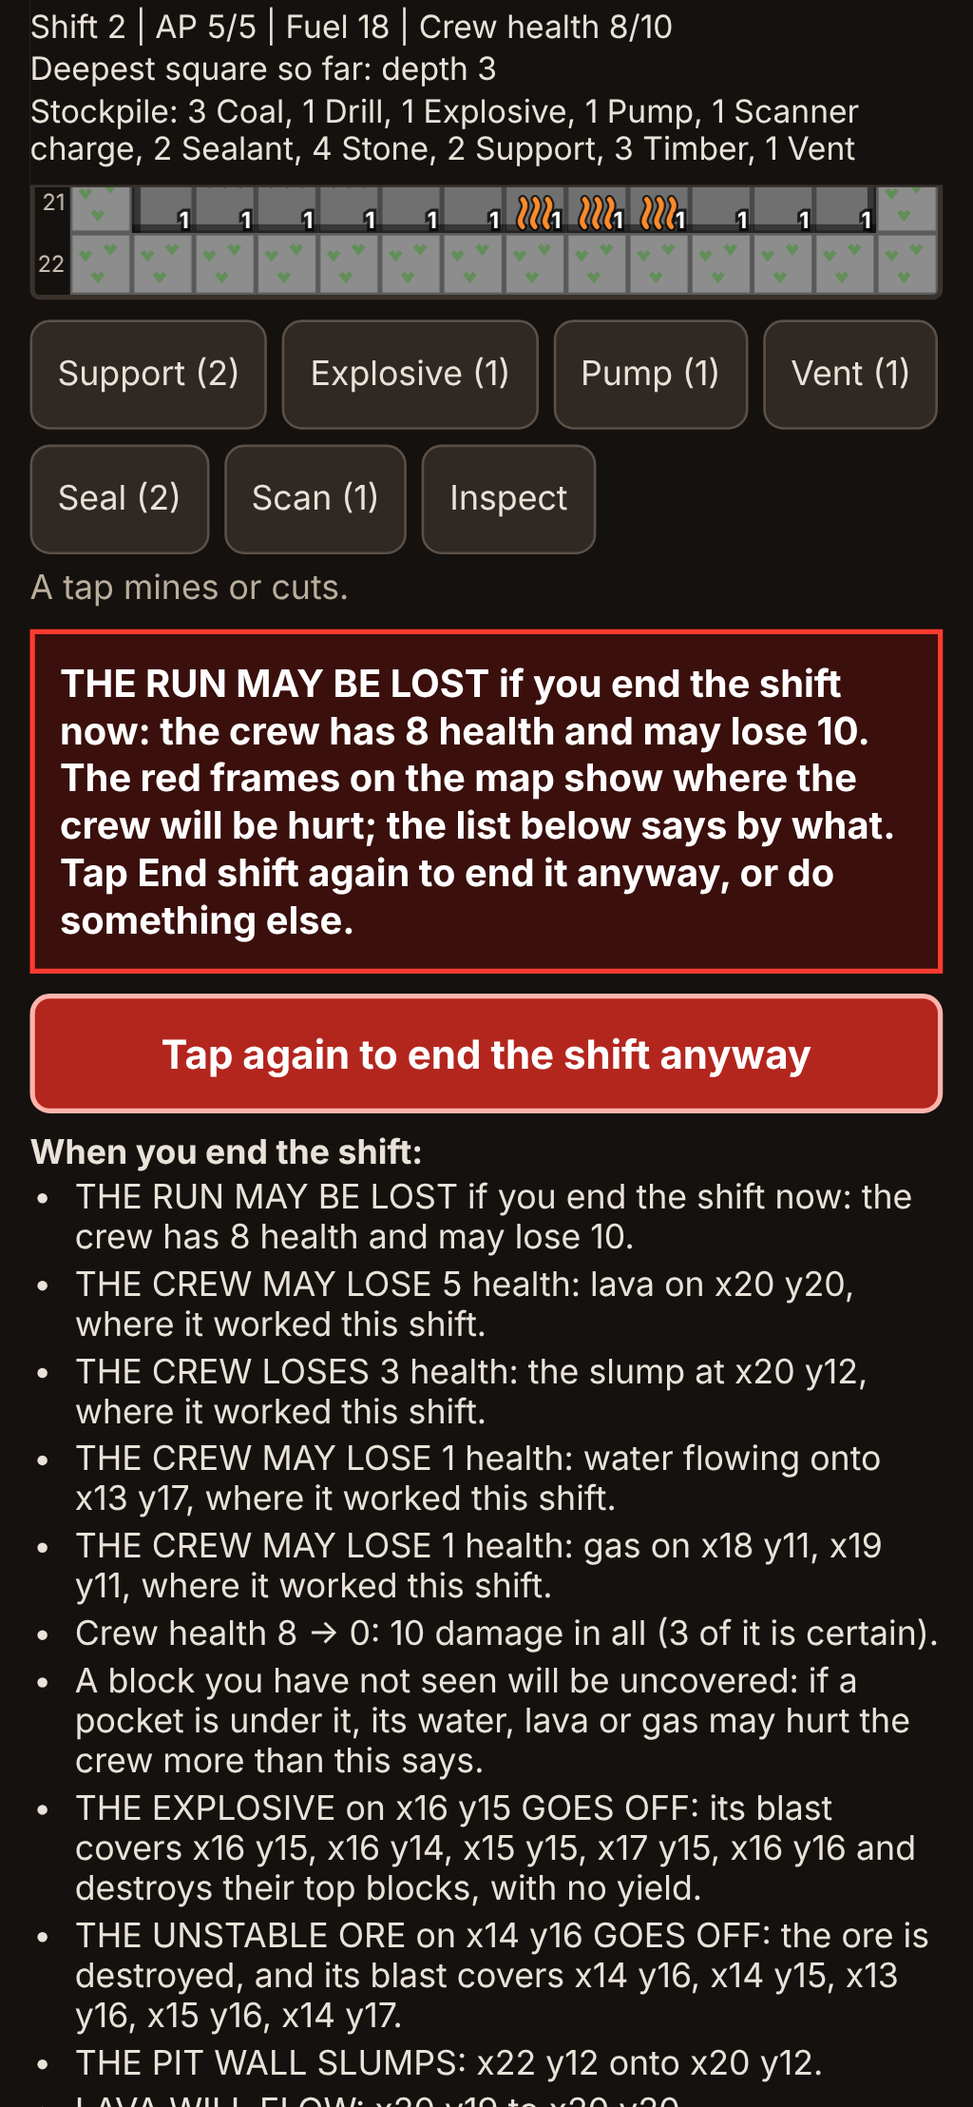
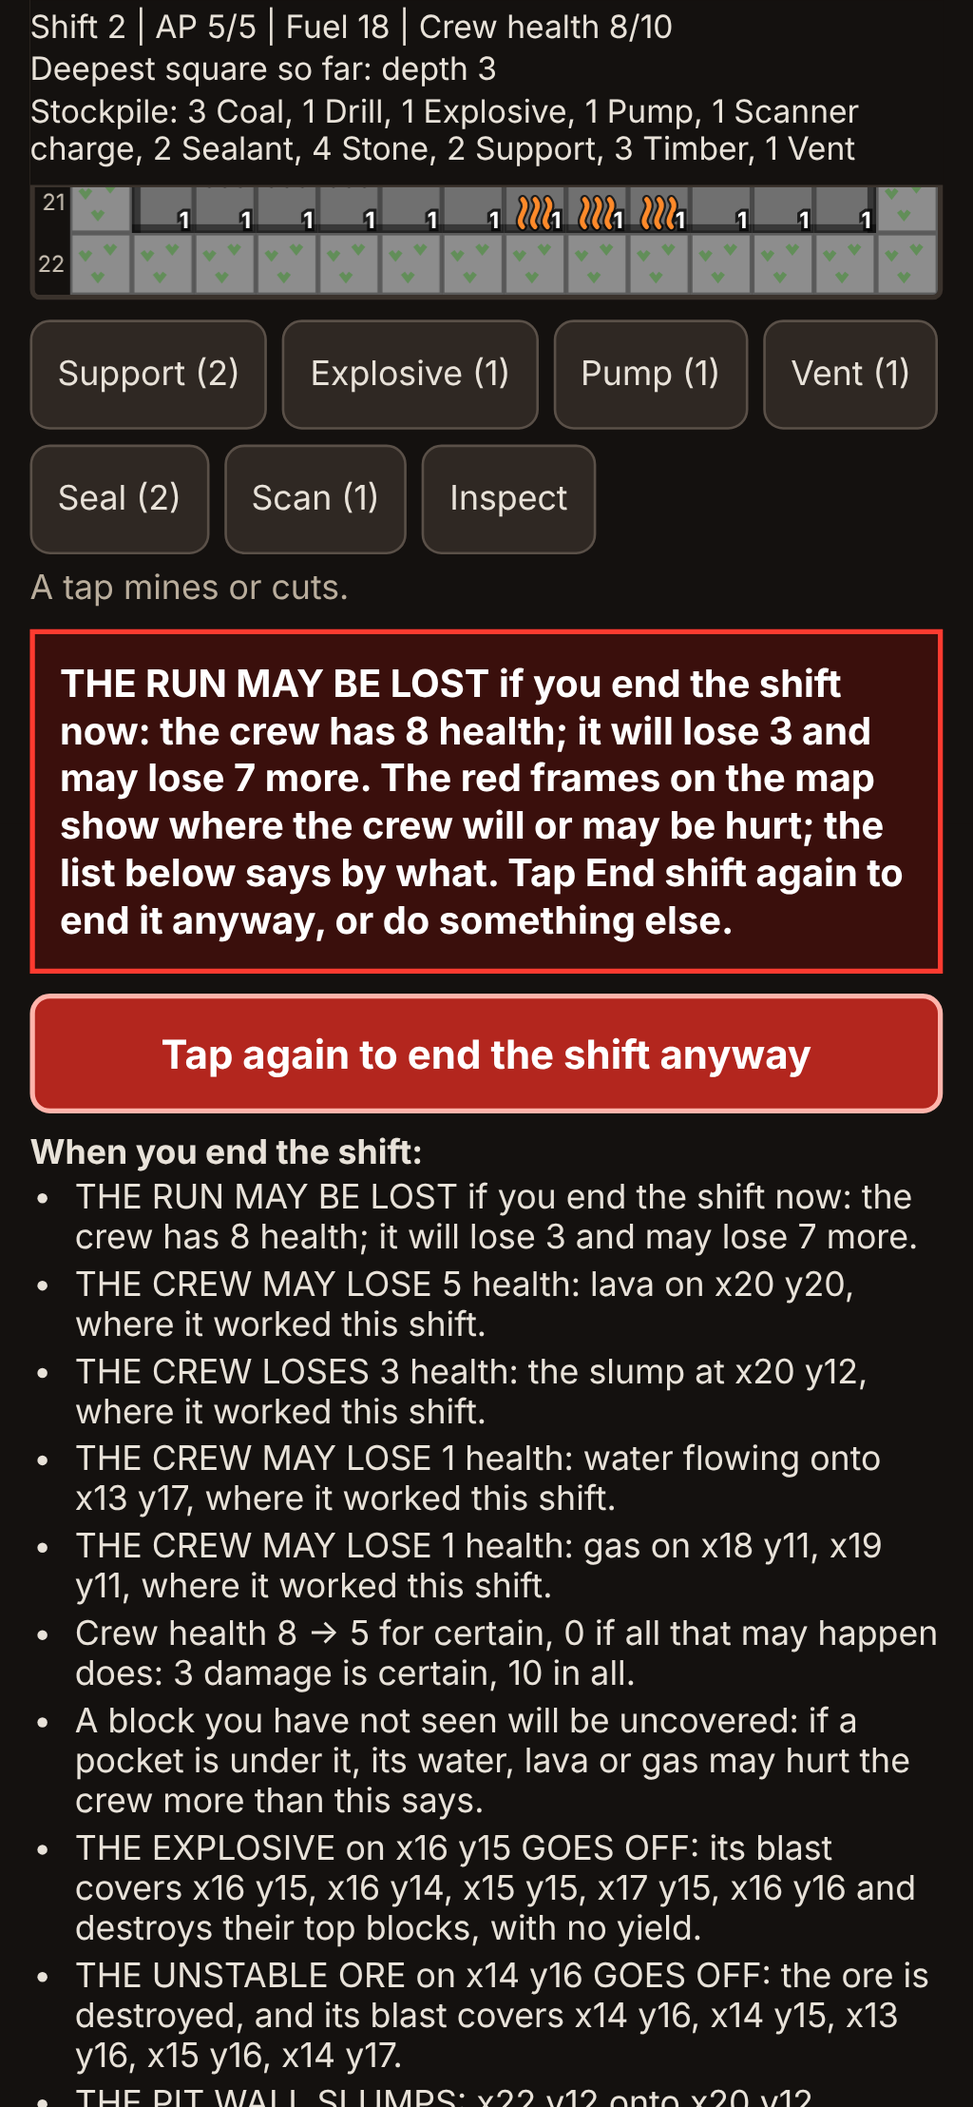
T16 review: a blast that opens a scanned space makes gas damage "may"
Review of PR #114. A space collapses once, through whichever roof goes
first, so when a blast opens a partly scanned pocket the forecast cannot
say where its gas comes out. Gas and gas-explosion damage are then "may",
not "at least", and the run is no longer said to be lost for certain.
The reviewer's repro is a scenario test, and the fuzz has partly scanned
pockets several cells long.

Also from the review: the lost-run headline and the total say the certain
and the possible damage apart; the "a block you have not seen" line shows
only when something seen already hurts the crew; the legend says "will or
may be hurt".

Claude-Session: https://claude.ai/code/session_013qbeeWLnbiXhRtzjTaMUwe

diff --git a/src/app/text/describe.ts b/src/app/text/describe.ts
@@ -711,13 +711,16 @@ export function crewLostWarning(crew: CrewForecast): string | null {
   if (crew.runLost === 'no' || crew.lossCause === null) {
     return null;
   }
-  const how = `the crew has ${crew.health} health and ${
-    crew.runLost === 'yes' ? 'loses' : 'may lose'
-  } ${crew.total}`;
-  if (crew.runLost === 'yes') {
-    return `THE RUN WILL BE LOST if you end the shift now: ${how}.`;
+  // What is certain and what only may happen are said apart (review of PR #114).
+  const more = crew.total - crew.totalAtLeast;
+  let how = `it loses ${crew.total}`;
+  if (more > 0 && crew.totalAtLeast > 0) {
+    how = `it will lose ${crew.totalAtLeast} and may lose ${more} more`;
+  } else if (more > 0) {
+    how = `it may lose ${crew.total}`;
   }
-  return `THE RUN MAY BE LOST if you end the shift now: ${how}.`;
+  const headline = crew.runLost === 'yes' ? 'THE RUN WILL BE LOST' : 'THE RUN MAY BE LOST';
+  return `${headline} if you end the shift now: the crew has ${crew.health} health; ${how}.`;
 }
 
 /**
@@ -729,9 +732,10 @@ export function crewLostWarning(crew: CrewForecast): string | null {
  *   amount first, with the worked squares where it deals that amount. An
  *   amount the engine marks "at least" or "may" is worded so.
  * - The total and the health left, when anything hurts.
- * - If something hidden may add to it, a line that says so.
+ * - If something hidden may add to it, a line that says so (only when
+ *   something seen already hurts the crew).
  */
-export function forecastCrewLines(crew: CrewForecast, anyWorked: boolean): RankedLine[] {
+export function forecastCrewLines(crew: CrewForecast): RankedLine[] {
   const lines: RankedLine[] = [];
   const lost = crewLostWarning(crew);
   if (lost !== null) {
@@ -754,19 +758,31 @@ export function forecastCrewLines(crew: CrewForecast, anyWorked: boolean): Ranke
     });
   }
   if (crew.damage.length > 0) {
-    const sure = crew.total === crew.totalAtLeast ? '' : ` (${crew.totalAtLeast} of it is certain)`;
-    lines.push({
-      rank: FORECAST_RANK.crewOrCamp,
-      text: `Crew health ${crew.health} -> ${crew.healthAfter}: ${crew.total} damage in all${sure}.`,
-    });
-  }
-  if (!crew.exact && anyWorked) {
-    lines.push({
-      rank: FORECAST_RANK.crewOrCamp,
-      text:
-        'A block you have not seen will be uncovered: if a pocket is under it, ' +
-        'its water, lava or gas may hurt the crew more than this says.',
-    });
+    if (crew.total === crew.totalAtLeast) {
+      lines.push({
+        rank: FORECAST_RANK.crewOrCamp,
+        text: `Crew health ${crew.health} -> ${crew.healthAfter}: ${crew.total} damage in all.`,
+      });
+    } else {
+      const afterCertain = Math.max(0, crew.health - crew.totalAtLeast);
+      lines.push({
+        rank: FORECAST_RANK.crewOrCamp,
+        text:
+          `Crew health ${crew.health} -> ${afterCertain} for certain, ${crew.healthAfter} if all that ` +
+          `may happen does: ${crew.totalAtLeast} damage is certain, ${crew.total} in all.`,
+      });
+    }
+    // Only when a hazard already reaches the crew: a slump uncovers an
+    // unseen block on nearly half of all shifts, and a line on each of them
+    // would be noise (review of PR #114).
+    if (!crew.exact) {
+      lines.push({
+        rank: FORECAST_RANK.crewOrCamp,
+        text:
+          'A block you have not seen will be uncovered: if a pocket is under it, ' +
+          'its water, lava or gas may hurt the crew more than this says.',
+      });
+    }
   }
   return lines;
 }

diff --git a/src/engine/forecast.ts b/src/engine/forecast.ts
@@ -105,6 +105,8 @@ export function forecastCountdowns(state: GameState): CountdownForecast[] {
  * - `atLeast`: it deals this or more. A blast will uncover a block the player
  *   has not seen (or may destroy a relic or keystone, which is decided by
  *   chance): if a pocket is under it, more gas burns or stands in the pit.
+ *   (If the blast opens a space the player has scanned, gas damage is `may`
+ *   instead: see `certaintyOf`.)
  * - `may`: this is what happens if nothing hidden comes out. A slump will
  *   uncover a block the player has not seen, before the water, lava and gas
  *   move: if a pocket is under it, its water, lava or gas can change what
@@ -234,11 +236,18 @@ function uncoversHidden(state: GameState, events: GameEvent[]): boolean {
  * - If only a blast uncovers one, steps (a) and (b) are over. The blasts
  *   themselves do not depend on it. Gas that comes out can only add to what
  *   burns: gas and gas explosions are 'atLeast'.
+ * - Unless a blast collapses a space the player has scanned
+ *   (`blastCollapsesSpace`): then gas and gas explosions are 'may'. A space
+ *   collapses once, through whichever roof goes first. If another blast
+ *   square is a roof of the same space that the player has NOT seen, the gas
+ *   really comes out there, not where the forecast puts it, and the
+ *   forecast's gas explosion may not happen at all (review of PR #114).
  */
 function certaintyOf(
   cause: DamageCause,
   slumpUncovers: boolean,
   blastUncovers: boolean,
+  blastCollapsesSpace: boolean,
 ): DamageCertainty {
   if (cause === 'slump') {
     return 'exact';
@@ -246,8 +255,13 @@ function certaintyOf(
   if (slumpUncovers) {
     return 'may';
   }
-  if (blastUncovers && (cause === 'gas' || cause === 'gasExplosion')) {
-    return 'atLeast';
+  if (cause === 'gas' || cause === 'gasExplosion') {
+    if (blastCollapsesSpace) {
+      return 'may';
+    }
+    if (blastUncovers) {
+      return 'atLeast';
+    }
   }
   return 'exact';
 }
@@ -305,12 +319,14 @@ export function forecastHazards(state: GameState): HazardForecast {
   // instead of applied. (The worked squares are the player's own actions.)
   const slumpUncovers = uncoversHidden(state, slumps);
   const blastUncovers = uncoversHidden(state, gas);
+  // A scanned space that a blast opens: where its gas comes out is not certain.
+  const blastCollapsesSpace = gas.some((event) => event.type === 'spaceCollapsed');
   const damage: CrewDamageForecast[] = [];
   let total = 0;
   let totalAtLeast = 0;
   let lossCause: RunEndCause | null = null;
   for (const entry of phase.damage) {
-    const certainty = certaintyOf(entry.cause, slumpUncovers, blastUncovers);
+    const certainty = certaintyOf(entry.cause, slumpUncovers, blastUncovers, blastCollapsesSpace);
     const squares: CrewDamageSquare[] = [];
     for (const square of phase.damageSquares) {
       if (square.cause === entry.cause) {

diff --git a/tests/engine/crewForecast.test.ts b/tests/engine/crewForecast.test.ts
@@ -469,6 +469,37 @@ describe('the forecast of crew damage: "at least" and "may" (issue #112)', () =>
     checkForecast(withPocket, 'hidden gas');
   });
 
+  it('a blast opens a partly scanned gas pocket: gas kinds are "may", and the run is not said to be lost', () => {
+    // The reviewer's case (PR #114). One row, five squares at depth 1. A gas
+    // pocket two cells long under x2 and x3; only the cell under x3 is
+    // scanned. A charge on x2. The crew worked x4 and has 3 health.
+    const state = pit(['11111'], { health: 3, worked: [{ x: 4, y: 0 }] }, undefined, 4);
+    for (const x of [2, 3]) {
+      hidePocket(state, { x, y: 0, z: 2 }, { gas: 6 });
+    }
+    setRevealed(state, { x: 3, y: 0, z: 2 }, true);
+    placeExplosive(state, 2, 0);
+
+    // The forecast opens the pocket through x3 (the roof it knows), so it
+    // sees gas burn on x3, beside the crew.
+    const { crew } = checkForecast(state, 'partly scanned pocket');
+    expect(crew.damage).toEqual([
+      {
+        cause: 'gasExplosion',
+        amount: CREW.damage.gasExplosion,
+        certainty: 'may',
+        squares: [{ x: 4, y: 0, amount: CREW.damage.gasExplosion }],
+      },
+    ]);
+    expect(crew.totalAtLeast).toBe(0);
+    expect(crew.runLost).toBe('may');
+    // In fact the hidden roof under x2 goes first: all the gas comes out and
+    // burns there, two squares from the crew, and nothing hurts it.
+    const after = endShift(state).state;
+    expect(after.status.kind).toBe('active');
+    expect(after.crew.health).toBe(3);
+  });
+
   it('a relic in a blast: chance decides, so the forecast is not exact', () => {
     const state = pit(['111', '111'], { worked: [{ x: 2, y: 1 }] }, ['#r#', '###']);
     placeExplosive(state, 0, 0);
@@ -539,6 +570,29 @@ function randomScene(seed: number): GameState {
     shift: NO_LAVA_SHIFT + nextInt(rng, 2),
     health: 1 + nextInt(rng, CREW.startHealth),
   });
+
+  // Pockets several cells long under neighbouring squares, some of them
+  // partly scanned: a space collapses once, through whichever roof goes first.
+  for (let count = nextInt(rng, 4); count > 0; count -= 1) {
+    const y = nextInt(rng, FUZZ_SIZE);
+    const z = 1 + nextInt(rng, FUZZ_LAYERS - 2);
+    const startX = nextInt(rng, FUZZ_SIZE - 1);
+    const length = 2 + nextInt(rng, 2);
+    const kind = nextInt(rng, 3);
+    for (let x = startX; x < Math.min(FUZZ_SIZE, startX + length); x += 1) {
+      if (z <= depthAt(state, x, y)) {
+        continue; // not under this square's top
+      }
+      hidePocket(
+        state,
+        { x, y, z },
+        { water: kind === 0 ? 1 : 0, lava: kind === 1 ? 1 : 0, gas: kind === 2 ? 6 : 0 },
+      );
+      if (oneIn(rng, 2)) {
+        setRevealed(state, { x, y, z }, true);
+      }
+    }
+  }
 
   for (let y = 0; y < FUZZ_SIZE; y += 1) {
     for (let x = 0; x < FUZZ_SIZE; x += 1) {

diff --git a/tests/e2e/crewForecast.spec.ts b/tests/e2e/crewForecast.spec.ts
@@ -42,11 +42,15 @@ test('a shift that would lose the run: amounts, red frames, and a second tap to 
   // The forecast opens with the lost run, then one line for each hazard, the
   // largest amount first, then the total.
   await expect(lines.nth(0)).toContainText('THE RUN');
-  await expect(lines.nth(0)).toContainText('the crew has 8 health');
+  await expect(lines.nth(0)).toContainText(
+    'THE RUN MAY BE LOST if you end the shift now: the crew has 8 health; it will lose 3 and may lose 7 more.',
+  );
   await expect(forecast).toContainText('5 health: lava on x20 y20');
   await expect(forecast).toContainText('3 health: the slump at x20 y12');
   await expect(forecast).toContainText('1 health: water flowing onto x13 y17');
-  await expect(forecast).toContainText('Crew health 8 -> 0');
+  await expect(forecast).toContainText(
+    'Crew health 8 -> 5 for certain, 0 if all that may happen does',
+  );
 
   // The map frames the worked squares where the crew will be hurt.
   const canvas = page.getByTestId('map-canvas');
@@ -54,7 +58,7 @@ test('a shift that would lose the run: amounts, red frames, and a second tap to 
   await expect(canvas).toHaveAttribute('data-crew-hurt', /13,17/);
   await expect(canvas).toHaveAttribute('data-crew-hurt', /20,20/);
   await expect(page.getByTestId('map-legend')).toContainText(
-    'red frame: the crew worked here and WILL BE HURT',
+    'red frame: the crew worked here and will or may be hurt',
   );
 
   // The button says so before any tap, and the first tap only asks.
@@ -92,7 +96,9 @@ test('a shift that hurts the crew but does not lose the run ends at one tap', as
   await openShowcase(page);
   const button = page.getByTestId('end-shift');
   await expect(button).toHaveText('End shift');
-  await expect(page.getByTestId('forecast')).toContainText('Crew health 8 -> 2');
+  await expect(page.getByTestId('forecast')).toContainText(
+    'Crew health 8 -> 8 for certain, 2 if all that may happen does',
+  );
   await expect(page.getByTestId('map-canvas')).toHaveAttribute('data-crew-hurt', /15,15/);
   await button.click();
   await expect(page.getByTestId('end-shift-warning')).toBeHidden();

diff --git a/tests/app/polish.test.ts b/tests/app/polish.test.ts
@@ -446,7 +446,7 @@ describe('the forecast says what each hazard takes off crew health (issue #112)'
     setWaterOn(state, 4, 0, 3);
     const view = buildView(state, { deepestDepth: 3 });
     expect(view.forecastLines.slice(0, 4)).toEqual([
-      'THE RUN WILL BE LOST if you end the shift now: the crew has 6 health and loses 6.',
+      'THE RUN WILL BE LOST if you end the shift now: the crew has 6 health; it loses 6.',
       'THE CREW LOSES 5 health: lava on x0 y0, where it worked this shift.',
       'THE CREW LOSES 1 health: water flowing onto x3 y0, where it worked this shift.',
       'Crew health 6 -> 0: 6 damage in all.',
@@ -470,9 +470,9 @@ describe('the forecast says what each hazard takes off crew health (issue #112)'
     setWaterOn(state, 0, 1, 1);
     const view = buildView(state, { deepestDepth: 4 });
     expect(view.forecastLines.slice(0, 4)).toEqual([
-      'THE RUN MAY BE LOST if you end the shift now: the crew has 1 health and may lose 1.',
+      'THE RUN MAY BE LOST if you end the shift now: the crew has 1 health; it may lose 1.',
       'THE CREW MAY LOSE 1 health: water flowing onto x1 y1, where it worked this shift.',
-      'Crew health 1 -> 0: 1 damage in all (0 of it is certain).',
+      'Crew health 1 -> 1 for certain, 0 if all that may happen does: 0 damage is certain, 1 in all.',
       'A block you have not seen will be uncovered: if a pocket is under it, ' +
         'its water, lava or gas may hurt the crew more than this says.',
     ]);

diff --git a/src/app/text/view.ts b/src/app/text/view.ts
@@ -45,7 +45,6 @@ import {
   shiftsUntilRegrowth,
   slumpCheck,
   stockpileEntries,
-  workedSquares,
 } from '../../engine';
 import type { GameState, KnownSquare } from '../../engine';
 import {
@@ -707,7 +706,7 @@ export function buildView(state: GameState, options: ViewOptions): PlayerView {
   // and whether the run would be lost. All of it is the engine's forecast
   // (`ShiftForecast.crew`; issue #112); the cube phase comes before upkeep,
   // so these lines hold even when the fuel has run out.
-  ranked.push(...forecastCrewLines(preview.crew, workedSquares(state).length > 0));
+  ranked.push(...forecastCrewLines(preview.crew));
   if (upkeep.runEnds !== null) {
     ranked.push({
       rank: FORECAST_RANK.runEnds,

diff --git a/src/app/preview.ts b/src/app/preview.ts
@@ -416,7 +416,7 @@ export function mountPreview(root: HTMLElement): void {
     endShiftWarning.textContent =
       lostWarning === null
         ? ''
-        : `${lostWarning} The red frames on the map show where the crew will be hurt; ` +
+        : `${lostWarning} The red frames on the map show where the crew will or may be hurt; ` +
           'the list below says by what. Tap End shift again to end it anyway, or do something else.';
 
     // One button per other choice on the list, in the list's order.

diff --git a/src/app/map/mapView.ts b/src/app/map/mapView.ts
@@ -1156,7 +1156,7 @@ function legendFor(tiles: Tile[]): HTMLElement[] {
   add(
     (t) => t.crewHurt,
     { worked: true, crewHurt: true },
-    'red frame: the crew worked here and WILL BE HURT when the shift ends (the list under End shift says by what)',
+    'red frame: the crew worked here and will or may be hurt when the shift ends (the list under End shift says by what)',
   );
   add((t) => t.structure === 'support', { structure: 'support' }, 'support: holds the square');
   add(

diff --git a/docs/decisions/0039-forecast-crew-damage.md b/docs/decisions/0039-forecast-crew-damage.md
@@ -27,24 +27,27 @@ The forecast runs on the copy in which every unrevealed cell is plain rock, so i
 | -------------------------------------------------------------------------- | ----- | ---------------------- | ------------------ |
 | Nothing hidden is uncovered                                                | exact | exact                  | exact              |
 | Only a blast uncovers a hidden block, or a relic or keystone is in a blast | exact | exact                  | at least           |
+| A blast opens a space the player has scanned                               | exact | exact                  | may                |
 | A slump uncovers a hidden block                                            | exact | may                    | may                |
 
 - "Uncovers a hidden block": a block slumps away or a blast destroys one, and the cell under it is not a revealed block. A scanned space that will collapse counts too, because the cells of it that were not scanned hold more than the forecast can count.
 - **A slump is always exact**: step (a) reads depths, top blocks, trees and supports, all seen, and a collapsed space leaves the square at the same depth as plain rock would.
 - **After a slump uncovers a block, everything later is "may"**: a pocket's water, lava or gas stands on that square before steps (b) and (c) run. It can add damage, and it can take some away (water turns lava to stone; lava destroys a charge).
 - **After only a blast, gas kinds are "at least"**: steps (a) and (b) are over, the blasts do not depend on what is uncovered, and gas that comes out can only add to what burns or stands.
+- **A blast that opens a scanned space makes gas kinds "may"** (review of PR #114). A space collapses once, through whichever roof goes first. If another square of the blast is a roof of the same space that the player has not seen, the gas comes out there and not where the forecast puts it, so the forecast's gas explosion may not happen. The reviewer's five-square case is a scenario test.
 - `runLost` is `'yes'` only if the certain part is enough, and `'may'` if the total as far as it can be seen is enough. With no worked square nothing can hurt the crew, so the forecast is exact whatever is uncovered.
 
 The hazard tells are **not** used to narrow this (question 131).
 
 ### What the player is shown
 
-- **Forecast lines** (phone and play tool, from the same function): first "THE RUN WILL BE LOST" or "THE RUN MAY BE LOST" when it applies; then one line for each kind, the largest amount first, with the squares ("THE CREW LOSES 5 health: lava on x20 y20…", "LOSES AT LEAST", "MAY LOSE"); then the total and the health left; then, if something hidden may add to it, one line that says so. The view's own sum for explosions ("THE CREW WORKED THERE: it loses 6 health") is removed.
-- **The map** draws a red frame, in place of the white corners, on each worked square where the crew will be hurt.
+- **Forecast lines** (phone and play tool, from the same function): first "THE RUN WILL BE LOST" or "THE RUN MAY BE LOST" when it applies; then one line for each kind, the largest amount first, with the squares ("THE CREW LOSES 5 health: lava on x20 y20…", "LOSES AT LEAST", "MAY LOSE"); then the total and the health left; then, if something hidden may add to it, one line that says so. That last line is shown only when something seen already hurts the crew: a slump uncovers an unseen block on nearly half of all shifts in simulated play, and hidden contents change the damage in under 1 in 200 of those (reviewer's survey). The headline and the total say the certain part and the possible part apart: "it will lose 3 and may lose 7 more"; "Crew health 8 -> 5 for certain, 0 if all that may happen does". The view's own sum for explosions ("THE CREW WORKED THERE: it loses 6 health") is removed.
+- **The map** draws a red frame, in place of the white corners, on each worked square where the crew will or may be hurt.
 - **End shift on the phone**: when the run would or may be lost the button is red and says so. The first tap shows the warning over the button and ends nothing; a second tap ends the shift; any other action withdraws the question. A shift that hurts the crew without losing the run ends at one tap.
 - The play tool has no confirm step: its forecast opens with the same warning, and it is driven by typed commands and by agents.
 
 ## Consequences
 
-- Most slumps uncover a hidden block, so in a shift with a slump the damage from water, lava, gas and blasts reads "MAY LOSE". The review's scene now opens "THE RUN MAY BE LOST… the crew has 8 health and may lose 10" and asks for a second tap. That is honest but weaker than it could be; question 131 asks whether to narrow it.
+- Most slumps uncover a hidden block, so in a shift with a slump the damage from water, lava, gas and blasts reads "MAY LOSE". The review's scene now opens "THE RUN MAY BE LOST… the crew has 8 health; it will lose 3 and may lose 7 more" and asks for a second tap. That is honest but weaker than it could be; question 131 asks whether to narrow it.
+- A forecast that says "no" while a slump or blast uncovers something can still be wrong: the reviewer's fuzz lost the run in 18 of about 46,000 such scenes. With nothing seen reaching the crew, no line says so now.
 - Tests: `tests/engine/crewForecast.test.ts` has a scenario for each kind, the "at least" and "may" cases with a real hidden pocket, and a fuzz over 600 hand-built cubes that compares the forecast with `endShift` wherever the forecast claims "exact" or "at least". The existing scramble tests compare the whole forecast, so they cover the new fields.
